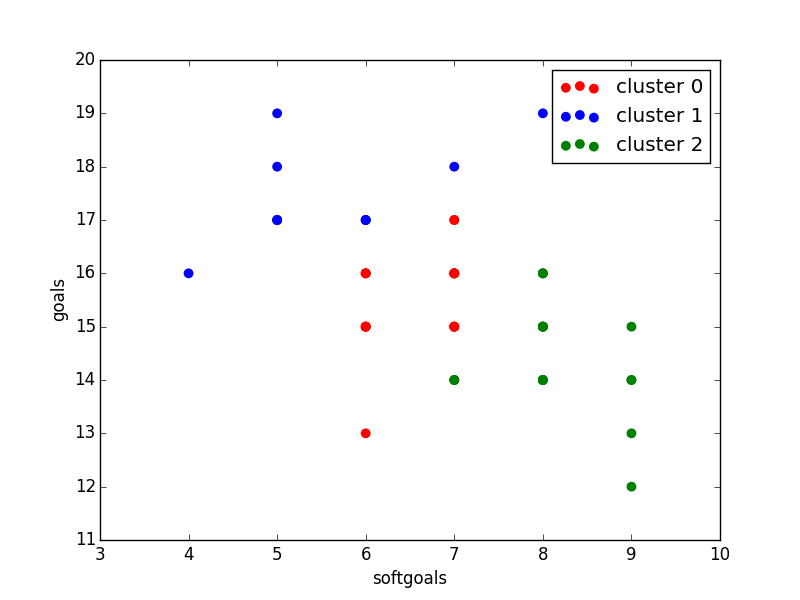
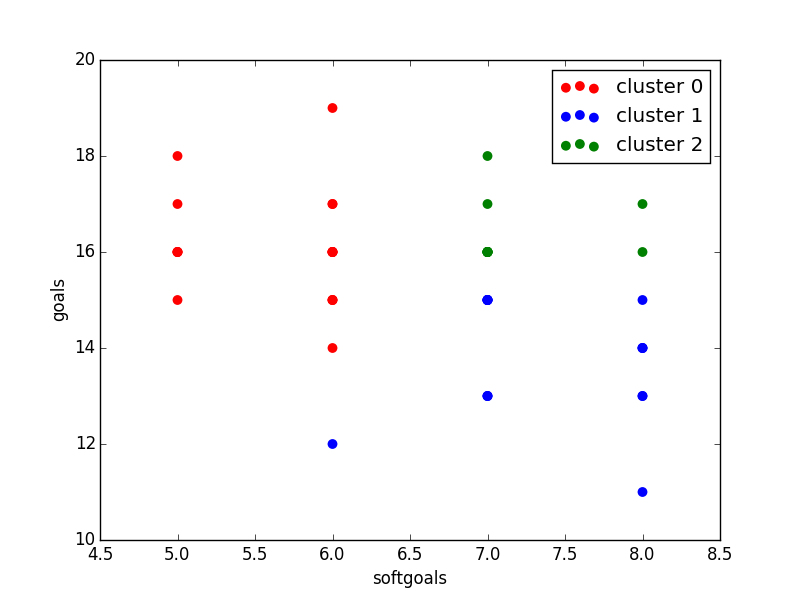
Added 3rd objective of network coverage

diff --git a/src/runner.py b/src/runner.py
@@ -22,33 +22,51 @@ def process_OOD(file_name):
   g.run(cluster_input)
   g.report()
   clusters = g.assign_clusters(objs)
-  plot_clusters(clusters,
+  try:
+    plot_clusters(clusters,
                 fig_name="img/"+name,
                 col_names=headers, colors=["red", "blue", "green"],
                 s=50, edgecolors='none')
+  except RuntimeError as e:
+    if e[0] == 500:
+      print(e[1])
+    else:
+      raise Exception(e)
   print("```")
   return stat.runtime
 
+
+def process_Visio(file_name):
+  from parser.VisioTree import VisioParser
+  parser = VisioParser(file_name)
+  parser.parse()
+
 def test_ome_tree():
-  process_OOD('../GMRepo/CMA12/bCMS_SR_CommunicationCompromiser.ood')
+  process_OOD('../GMRepo/CMA12/bCMS_SR_bCMS_AuthenticationVariation.ood')
+
+def test_visio_tree():
+  process_Visio('../GMRepo/Counseling Service/Stage1_UnderstandingCS/XML/ParentsSD.vdx')
+  #process_Visio('../GMRepo/CMA12/bCMS_SR_CommunicationCompromiser.ood')
 
 if __name__ == "__main__":
-  directory = '../GMRepo/CMA12'
-  times = {}
-  for file_name in os.listdir(directory):
-    if file_name.endswith(".ood"):
-      file_name = directory + "/" + file_name
-      name = os.path.basename(file_name).split(".")[0]
-      try:
-        times[name] = process_OOD(file_name)
-      except RuntimeError as e:
-        if e[0] == 500:
-          print(file_name)
-          print(e[1])
-          print("```")
-        else:
-          raise Exception()
-      print("")
-  x=times
-  bar_plot(x, 'img/runtimes.png')
+  # directory = '../GMRepo/CMA12'
+  # times = {}
+  # for file_name in os.listdir(directory):
+  #   if file_name.endswith(".ood"):
+  #     file_name = directory + "/" + file_name
+  #     name = os.path.basename(file_name).split(".")[0]
+  #     try:
+  #       times[name] = process_OOD(file_name)
+  #     except RuntimeError as e:
+  #       if e[0] == 500:
+  #         print(file_name)
+  #         print(e[1])
+  #         print("```")
+  #       else:
+  #         raise Exception()
+  #     print("")
+  # x=times
+  # bar_plot(x, 'img/runtimes.png')
+  test_ome_tree()
+  #test_visio_tree()
 

diff --git a/src/utilities/de.py b/src/utilities/de.py
@@ -13,17 +13,20 @@ def default():
     cr = 0.3,
     seed = 1,
     better = gt,
-    obj_funcs = [eval_softgoals, eval_goals]
+    obj_funcs = [eval_softgoals, eval_goals, eval_coverage]
   )
 
-def eval_roots(model, decision_map):
-  return model.evaluate_score(decision_map)
+def eval_roots(model):
+  return model.evaluate_score()
 
-def eval_goals(model, decision_map):
-  return model.evaluate_type(decision_map, node_type="goal")
+def eval_goals(model):
+  return model.evaluate_type(node_type="goal")
 
-def eval_softgoals(model, decision_map):
-  return model.evaluate_type(decision_map, node_type="softgoal")
+def eval_softgoals(model):
+  return model.evaluate_type(node_type="softgoal")
+
+def eval_coverage(model):
+  return len(model.get_nodes_covered())
 
 
 def dominates(obj1, obj2, better=lt):
@@ -55,8 +58,8 @@ class Point(O):
 
   def evaluate(self, model, obj_funcs):
     if not self.objectives:
-      self.objectives = [func(model, self.decisions) for func in obj_funcs]
-      #self.objectives = [model.evaluate(self.decisions)]
+      model.reset_nodes(self.decisions)
+      self.objectives = [func(model) for func in obj_funcs]
     return self.objectives
 
   @staticmethod

diff --git a/src/models/model.py b/src/models/model.py
@@ -20,6 +20,12 @@ class Model(O):
     self.chain = set()
 
 
+  def get_nodes(self):
+    return self._tree.nodes
+
+  def get_nodes_covered(self):
+    return [node for node in self.get_nodes() if node.value]
+
   def generate(self):
     point_map = {}
     for node in self.roots:
@@ -30,6 +36,12 @@ class Model(O):
     for node in self._tree.nodes:
       node.value = None
 
+  def reset_nodes(self, initial_node_map):
+    self.clear_nodes()
+    for key in initial_node_map.keys():
+      node = self._tree.get_node(key)
+      node.value = initial_node_map[key]
+
   def evaluate_score(self, initial_node_map):
     self.clear_nodes()
     for key in initial_node_map.keys():
@@ -37,11 +49,7 @@ class Model(O):
       node.value = initial_node_map[key]
     return self.score()
 
-  def evaluate_type(self, initial_node_map, node_type):
-    self.clear_nodes()
-    for key in initial_node_map.keys():
-      node = self._tree.get_node(key)
-      node.value = initial_node_map[key]
+  def evaluate_type(self, node_type):
     count = 0
     for node in self._tree.get_nodes(node_type=node_type):
       self.chain = set()

diff --git a/src/parser/VisioTree.py b/src/parser/VisioTree.py
@@ -4,7 +4,9 @@ from parser_utils import *
 __author__ = 'george'
 
 def default_ns():
-  return {}
+  return {
+    'model' : 'http://schemas.microsoft.com/visio/2003/core'
+  }
 
 
 class VisioParser(Parser):
@@ -38,4 +40,7 @@ class VisioParser(Parser):
     """
     tree = ET.parse(self.src)
     model = tree.getroot()
-    print(model)
+    for pages in model.findall('model:Pages', self.ns):
+      for page in pages.findall('model:Page', self.ns):
+        for element in page.find('./'):
+          print(element)

diff --git a/src/utilities/plotter.py b/src/utilities/plotter.py
@@ -42,7 +42,7 @@ def plot_clusters(clusters, fig_name="temp.png", col_names=None, colors=None, **
   :return:
   """
   if len(clusters.values()[0][0]) != 2:
-    raise Exception("Only 2 dimensional points supported")
+    raise RuntimeError(500, "Only 2 dimensional points supported")
   seed()
   if not col_names:
     col_names = ["Obj 1", "Obj 2"]
